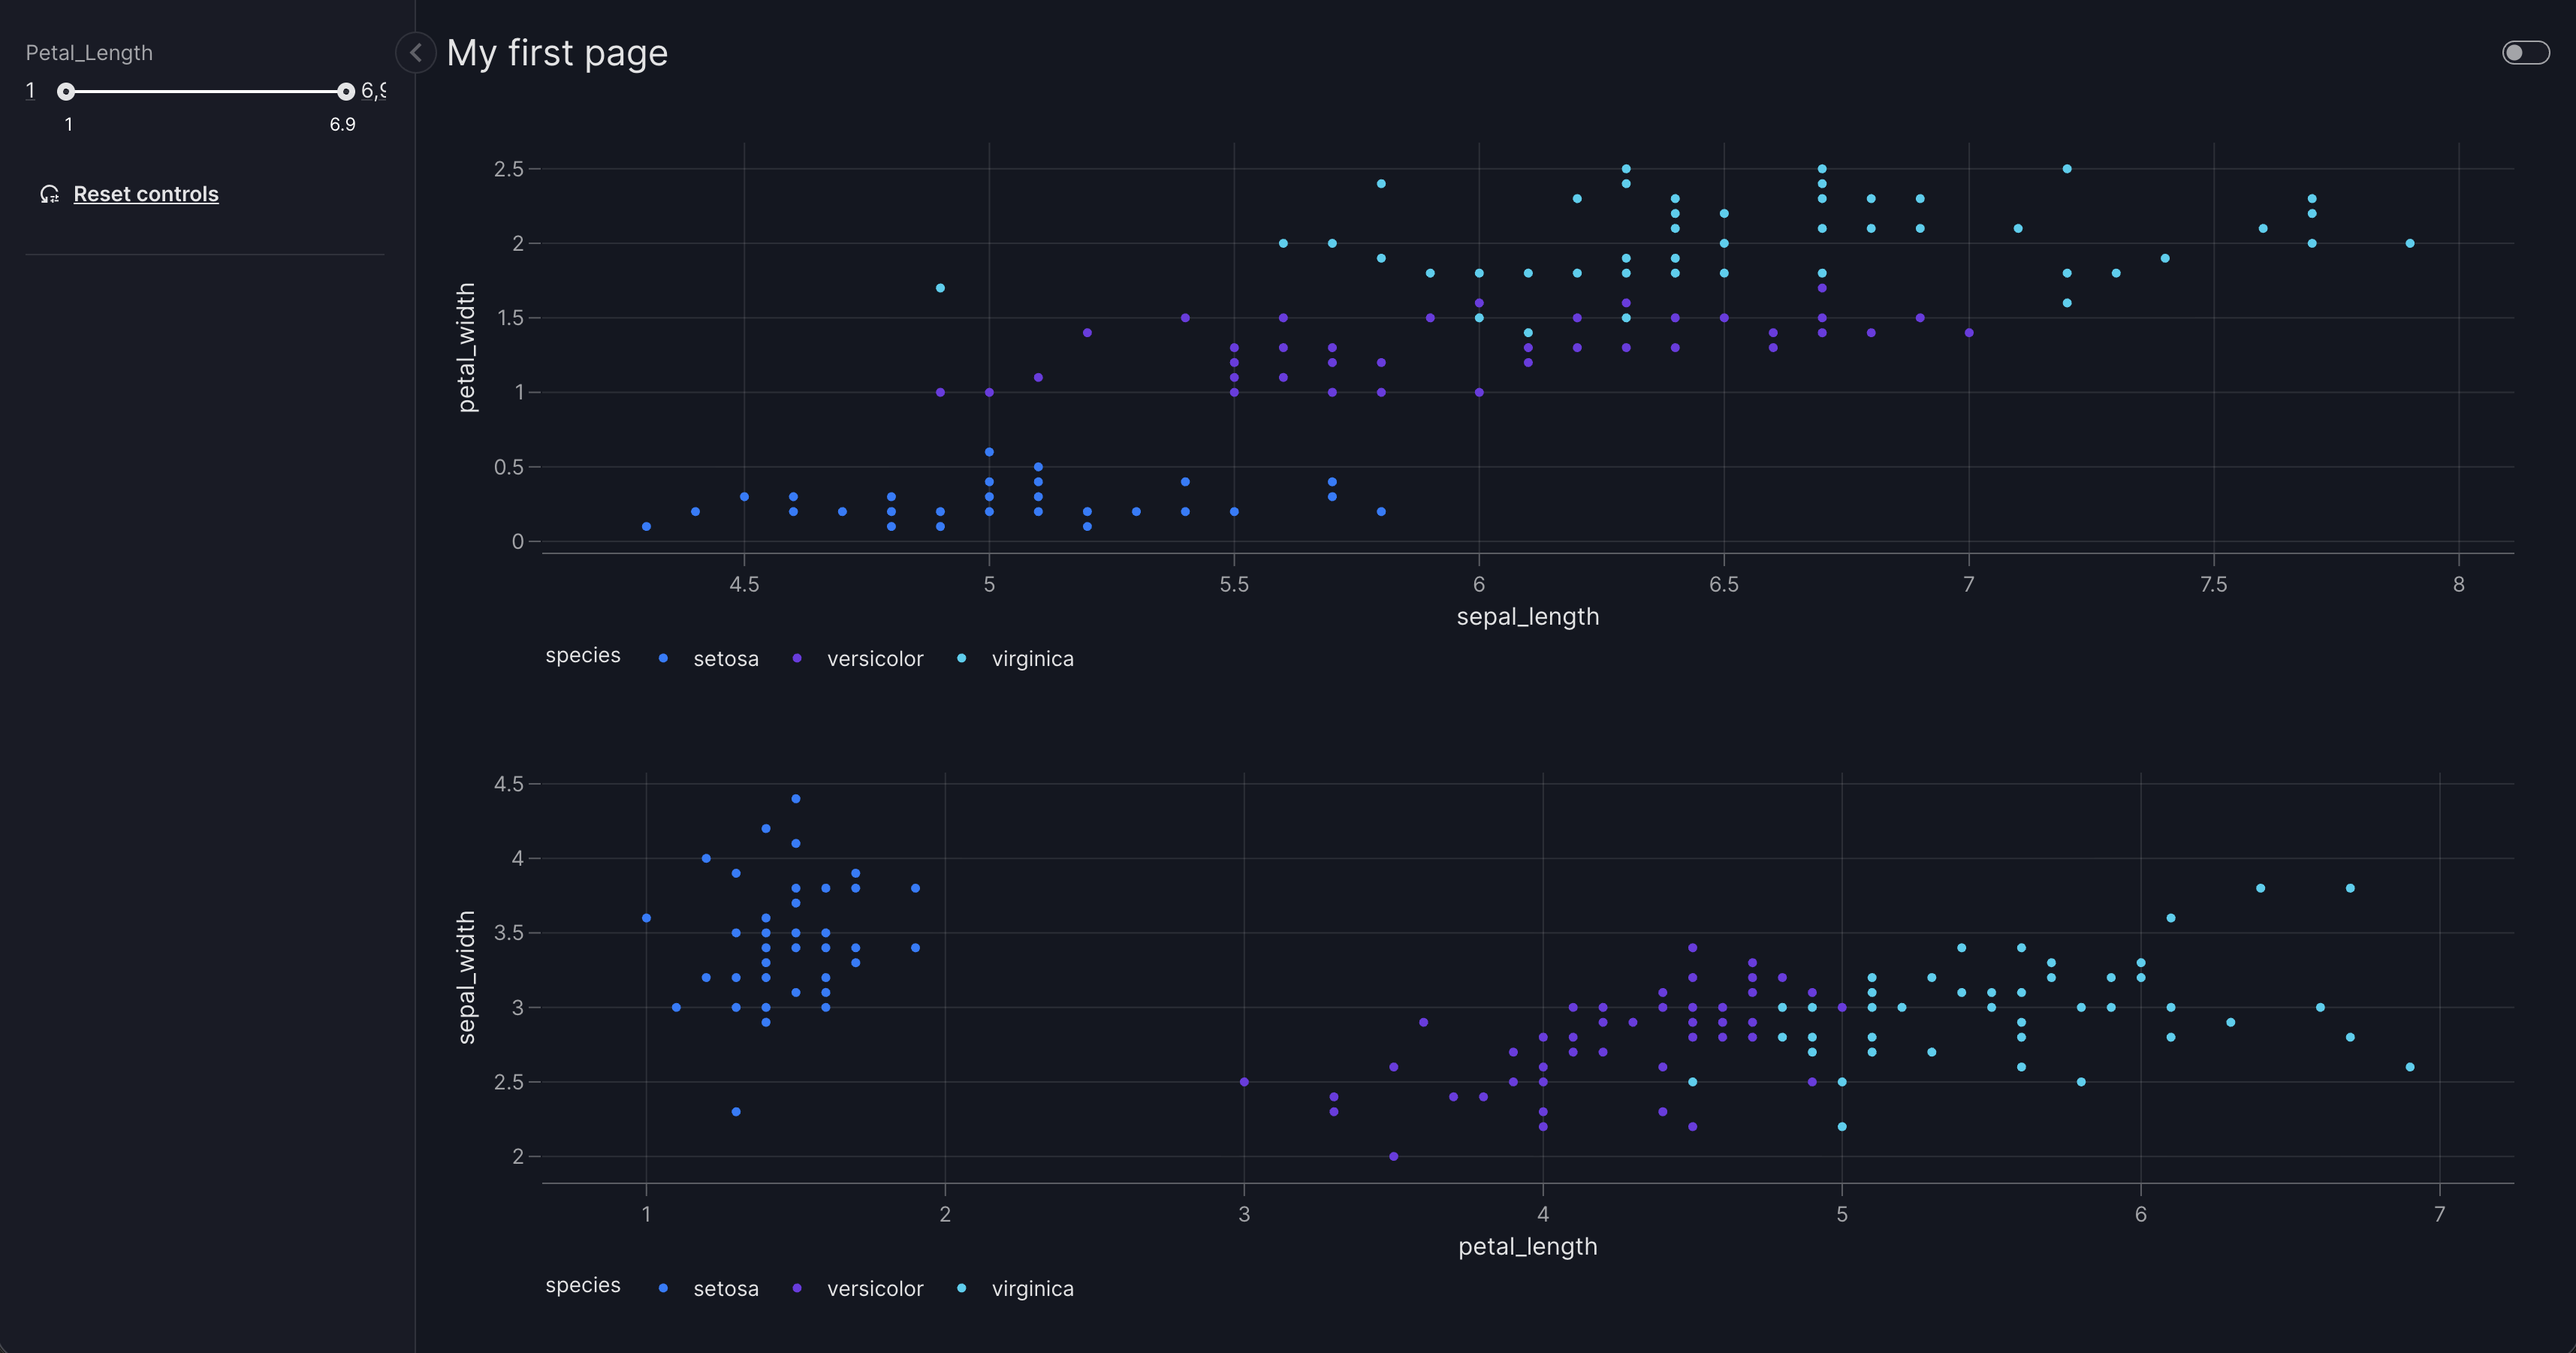
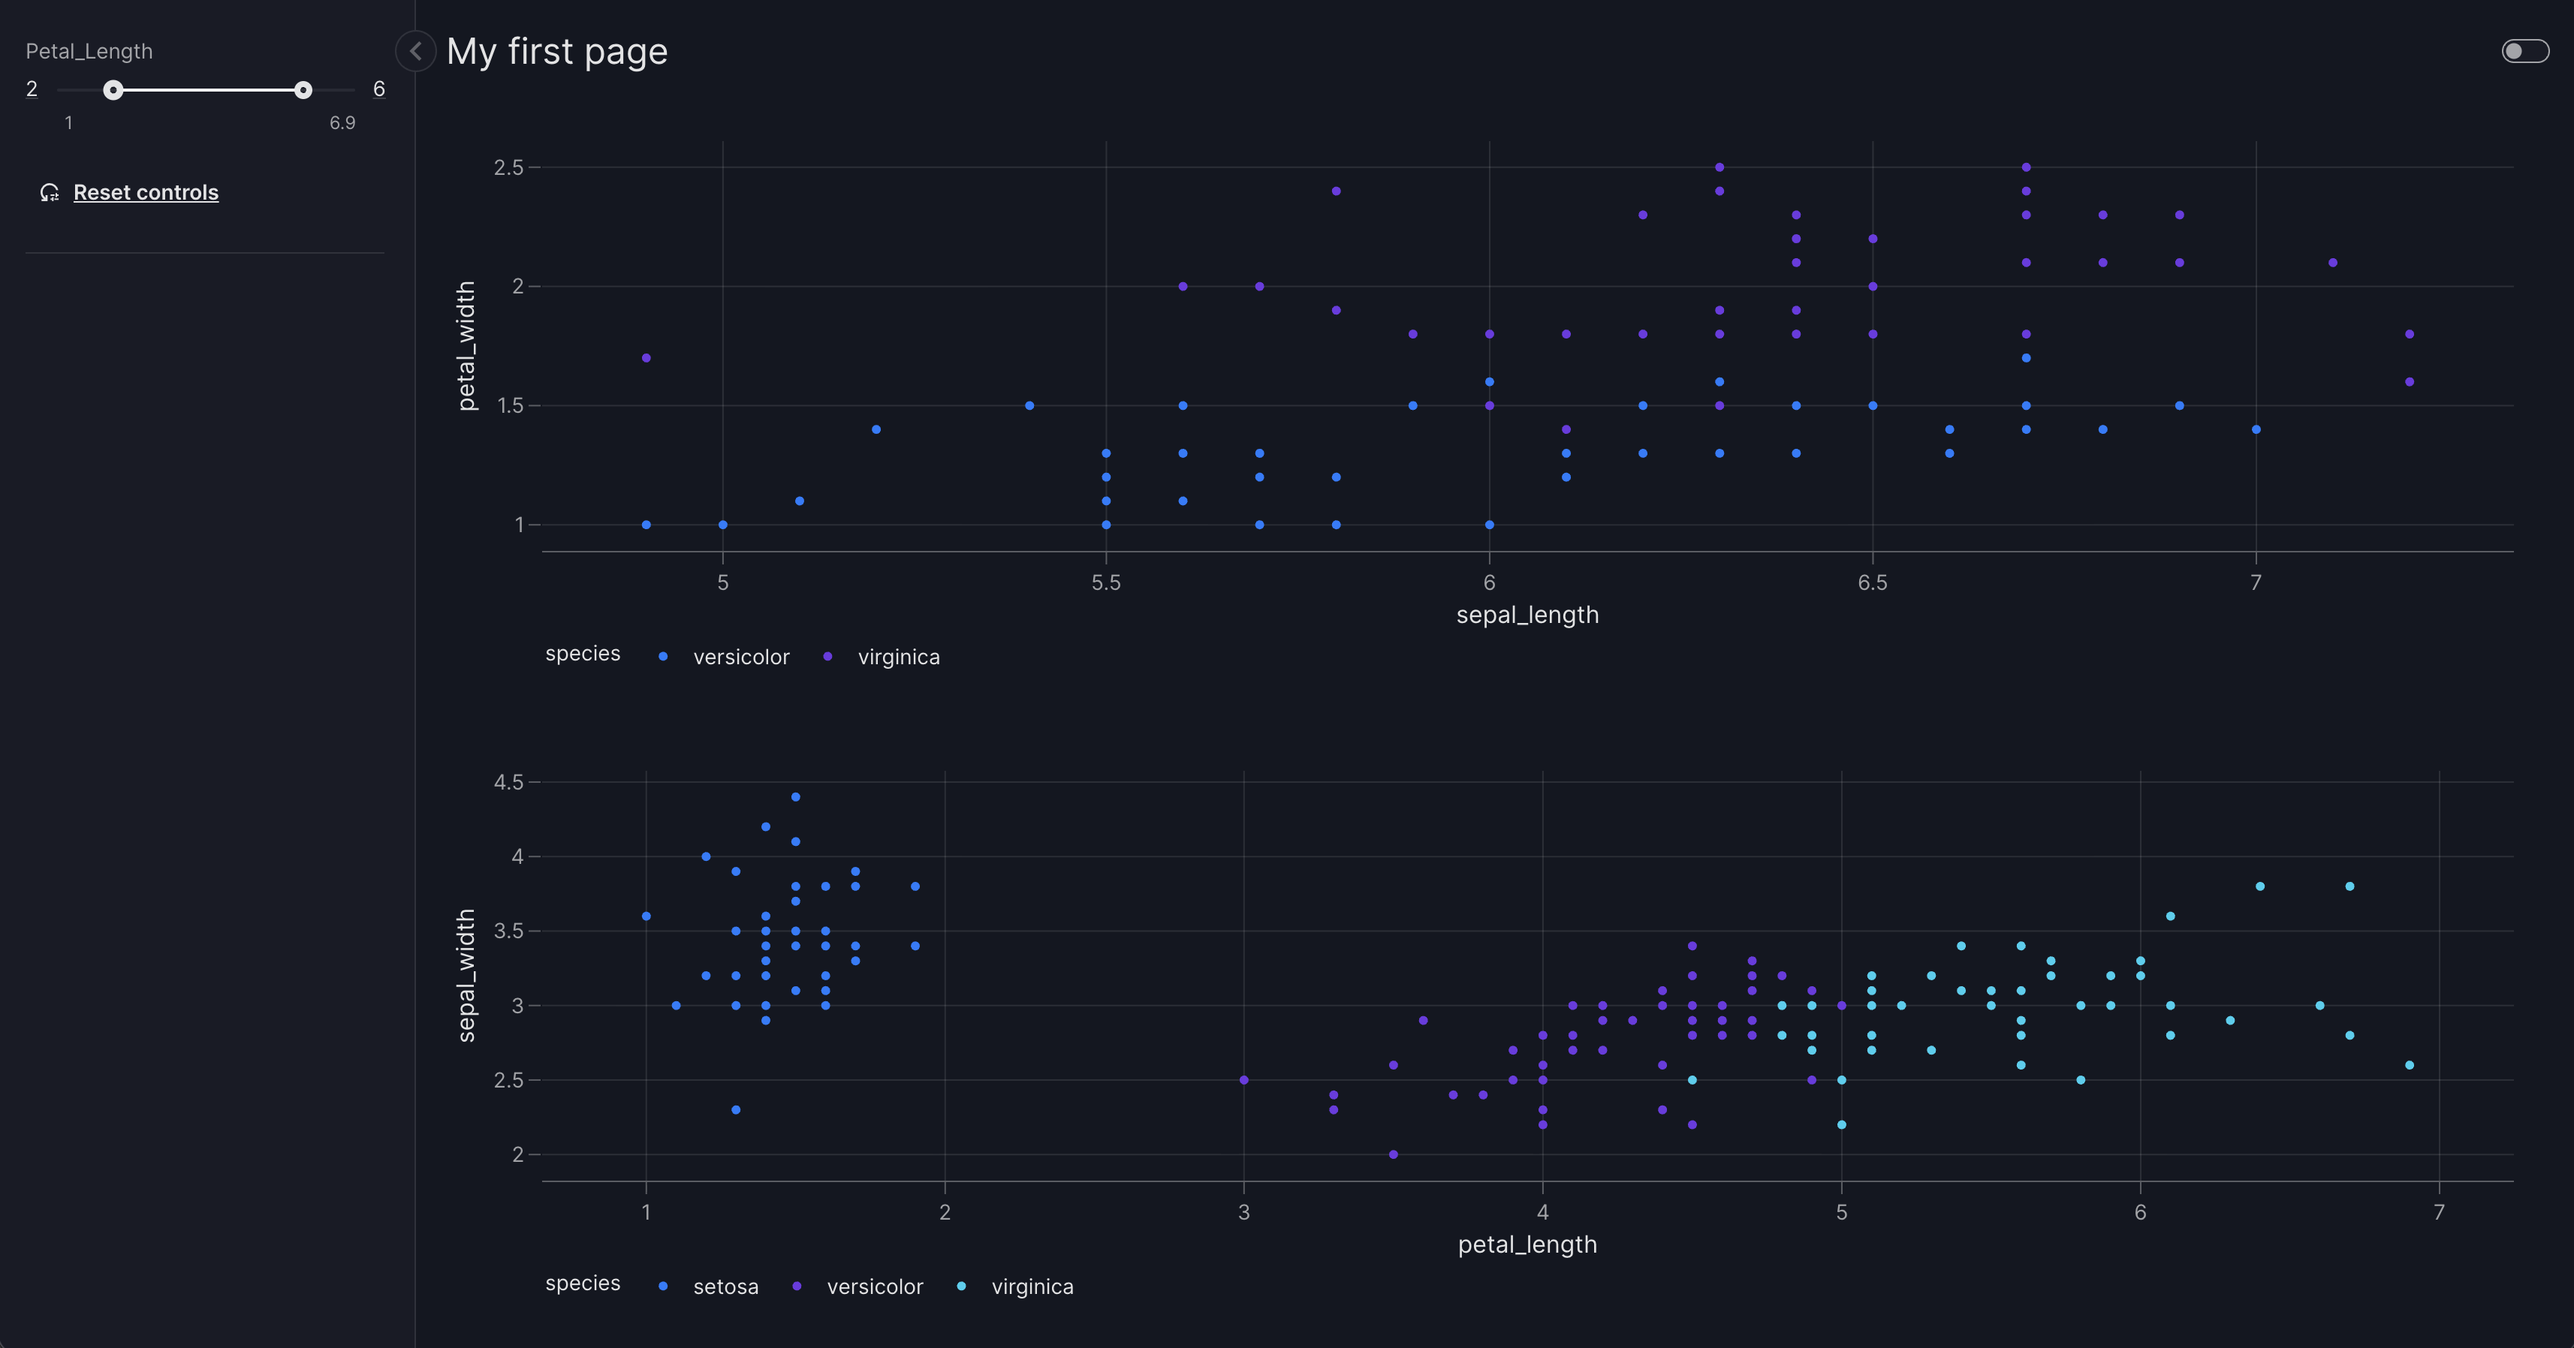
pr comments

diff --git a/vizro-core/docs/pages/user-guides/parameters.md b/vizro-core/docs/pages/user-guides/parameters.md
@@ -117,7 +117,7 @@ If you want to change nested parameters, you can specify the `targets` argument 
                         y="sepal_length",
                         color="species",
                         size="petal_length",
-                        color_discrete_map={"setosa": "#00b4ff", "versicolor": "#ff9222"},
+                        color_discrete_map={"setosa": "#097DFE", "versicolor": "#6F39E3"},
                     ),
                 ),
                 vm.Graph(
@@ -127,7 +127,7 @@ If you want to change nested parameters, you can specify the `targets` argument 
                         x="sepal_width",
                         y="sepal_length",
                         color="species",
-                        color_discrete_map={"setosa": "#00b4ff", "versicolor": "#ff9222"},
+                        color_discrete_map={"setosa": "#097DFE", "versicolor": "#6F39E3"},
                     ),
                 ),
             ],
@@ -135,9 +135,9 @@ If you want to change nested parameters, you can specify the `targets` argument 
                 vm.Parameter(
                     targets=["scatter_chart.color_discrete_map.virginica", "bar_chart.color_discrete_map.virginica"],
                     selector=vm.Dropdown(
-                        options=["#ff5267", "#3949ab"],
+                        options=["#05D0F0", "#0F766E"],
                         multi=False,
-                        value="#3949ab",
+                        value="#05D0F0",
                     ),
                 ),
             ],
